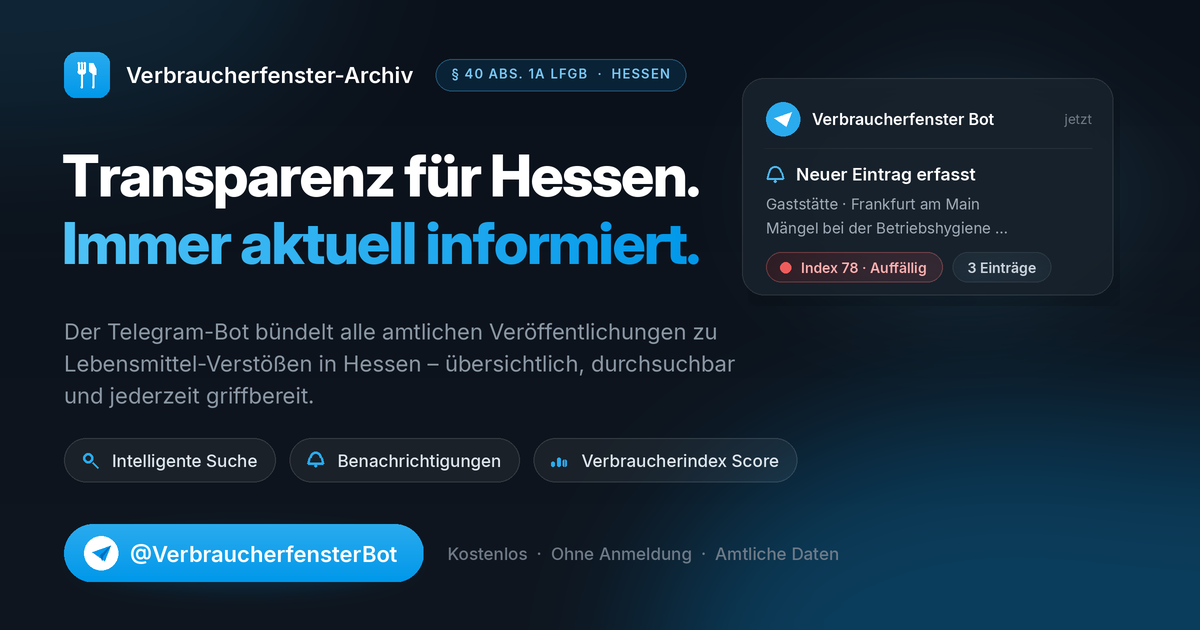
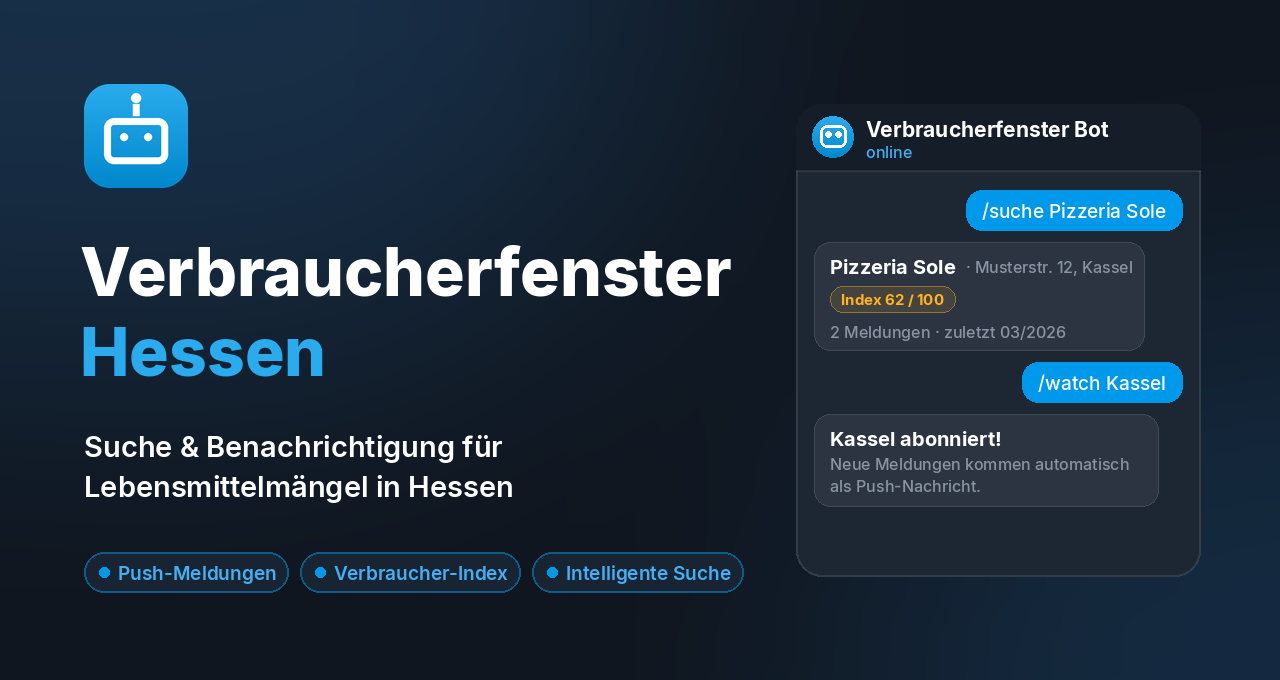
Add files via upload

diff --git a/index.html b/index.html
@@ -1117,7 +1117,7 @@
         </a>
       </nav>
 
-      <a class="btn btn--primary btn--sm" href="https://t.me/VerbraucherfensterBot" target="_blank" rel="noopener noreferrer">
+      <a class="btn btn--primary btn--sm" href="https://telegram.me/VerbraucherfensterBot" target="_blank" rel="noopener noreferrer">
         <svg class="icon" width="16" height="16" aria-hidden="true"><use href="#i-telegram"/></svg>
         <span>Bot&nbsp;starten</span>
       </a>
@@ -1144,7 +1144,7 @@
         </p>
 
         <div class="hero-actions">
-          <a class="btn btn--primary" href="https://t.me/VerbraucherfensterBot" target="_blank" rel="noopener noreferrer">
+          <a class="btn btn--primary" href="https://telegram.me/VerbraucherfensterBot" target="_blank" rel="noopener noreferrer">
             <svg class="icon" width="20" height="20" aria-hidden="true"><use href="#i-telegram"/></svg>
             Telegram Bot starten
           </a>
@@ -1386,7 +1386,7 @@
             <h2>Bereit für mehr Transparenz?</h2>
             <p>Starte den Bot kostenlos in deiner Telegram-App und bleib bei neuen Lebensmittelmängeln in Hessen automatisch auf dem Laufenden.</p>
             <div class="cta-actions">
-              <a class="btn btn--white" href="https://t.me/VerbraucherfensterBot" target="_blank" rel="noopener noreferrer">
+              <a class="btn btn--white" href="https://telegram.me/VerbraucherfensterBot" target="_blank" rel="noopener noreferrer">
                 <svg class="icon" width="20" height="20" aria-hidden="true"><use href="#i-telegram"/></svg>
                 Telegram Bot starten
               </a>
@@ -1436,7 +1436,7 @@
           <h4>Links</h4>
           <ul>
             <li>
-              <a href="https://t.me/VerbraucherfensterBot" target="_blank" rel="noopener noreferrer">
+              <a href="https://telegram.me/VerbraucherfensterBot" target="_blank" rel="noopener noreferrer">
                 Telegram-Bot
                 <svg class="icon" width="13" height="13" aria-hidden="true"><use href="#i-arrow"/></svg>
               </a>
@@ -1462,7 +1462,7 @@
       <div class="footer-bottom">
         <p>© <span id="copyright-jahr">2026</span> Verbraucherfenster Hessen · Open-Source-Projekt</p>
         <div class="footer-social">
-          <a href="https://t.me/VerbraucherfensterBot" target="_blank" rel="noopener noreferrer" aria-label="Telegram-Bot öffnen">
+          <a href="https://telegram.me/VerbraucherfensterBot" target="_blank" rel="noopener noreferrer" aria-label="Telegram-Bot öffnen">
             <svg class="icon" width="17" height="17" aria-hidden="true"><use href="#i-telegram"/></svg>
           </a>
           <a href="https://github.com/TelegramTrainer/Verbraucherfenster" target="_blank" rel="noopener noreferrer" aria-label="GitHub-Repository öffnen">

diff --git a/impressum.html b/impressum.html
@@ -34,7 +34,7 @@
     <div class="card">
       <p>Dieses Angebot ist ein privates, nicht-kommerzielles Open-Source-Projekt unter dem Namen <strong>RealMates</strong>.</p>
       <p>E-Mail: <strong>saveplacedata@protonmail.com</strong></p>
-      <p>Telegram: <a href="https://t.me/VerbraucherfensterBot" target="_blank" rel="noopener noreferrer">@VerbraucherfensterBot</a></p>
+      <p>Telegram: <a href="https://telegram.me/VerbraucherfensterBot" target="_blank" rel="noopener noreferrer">@VerbraucherfensterBot</a></p>
     </div>
     <h2>Verantwortlich für den Inhalt</h2>
     <div class="card">
